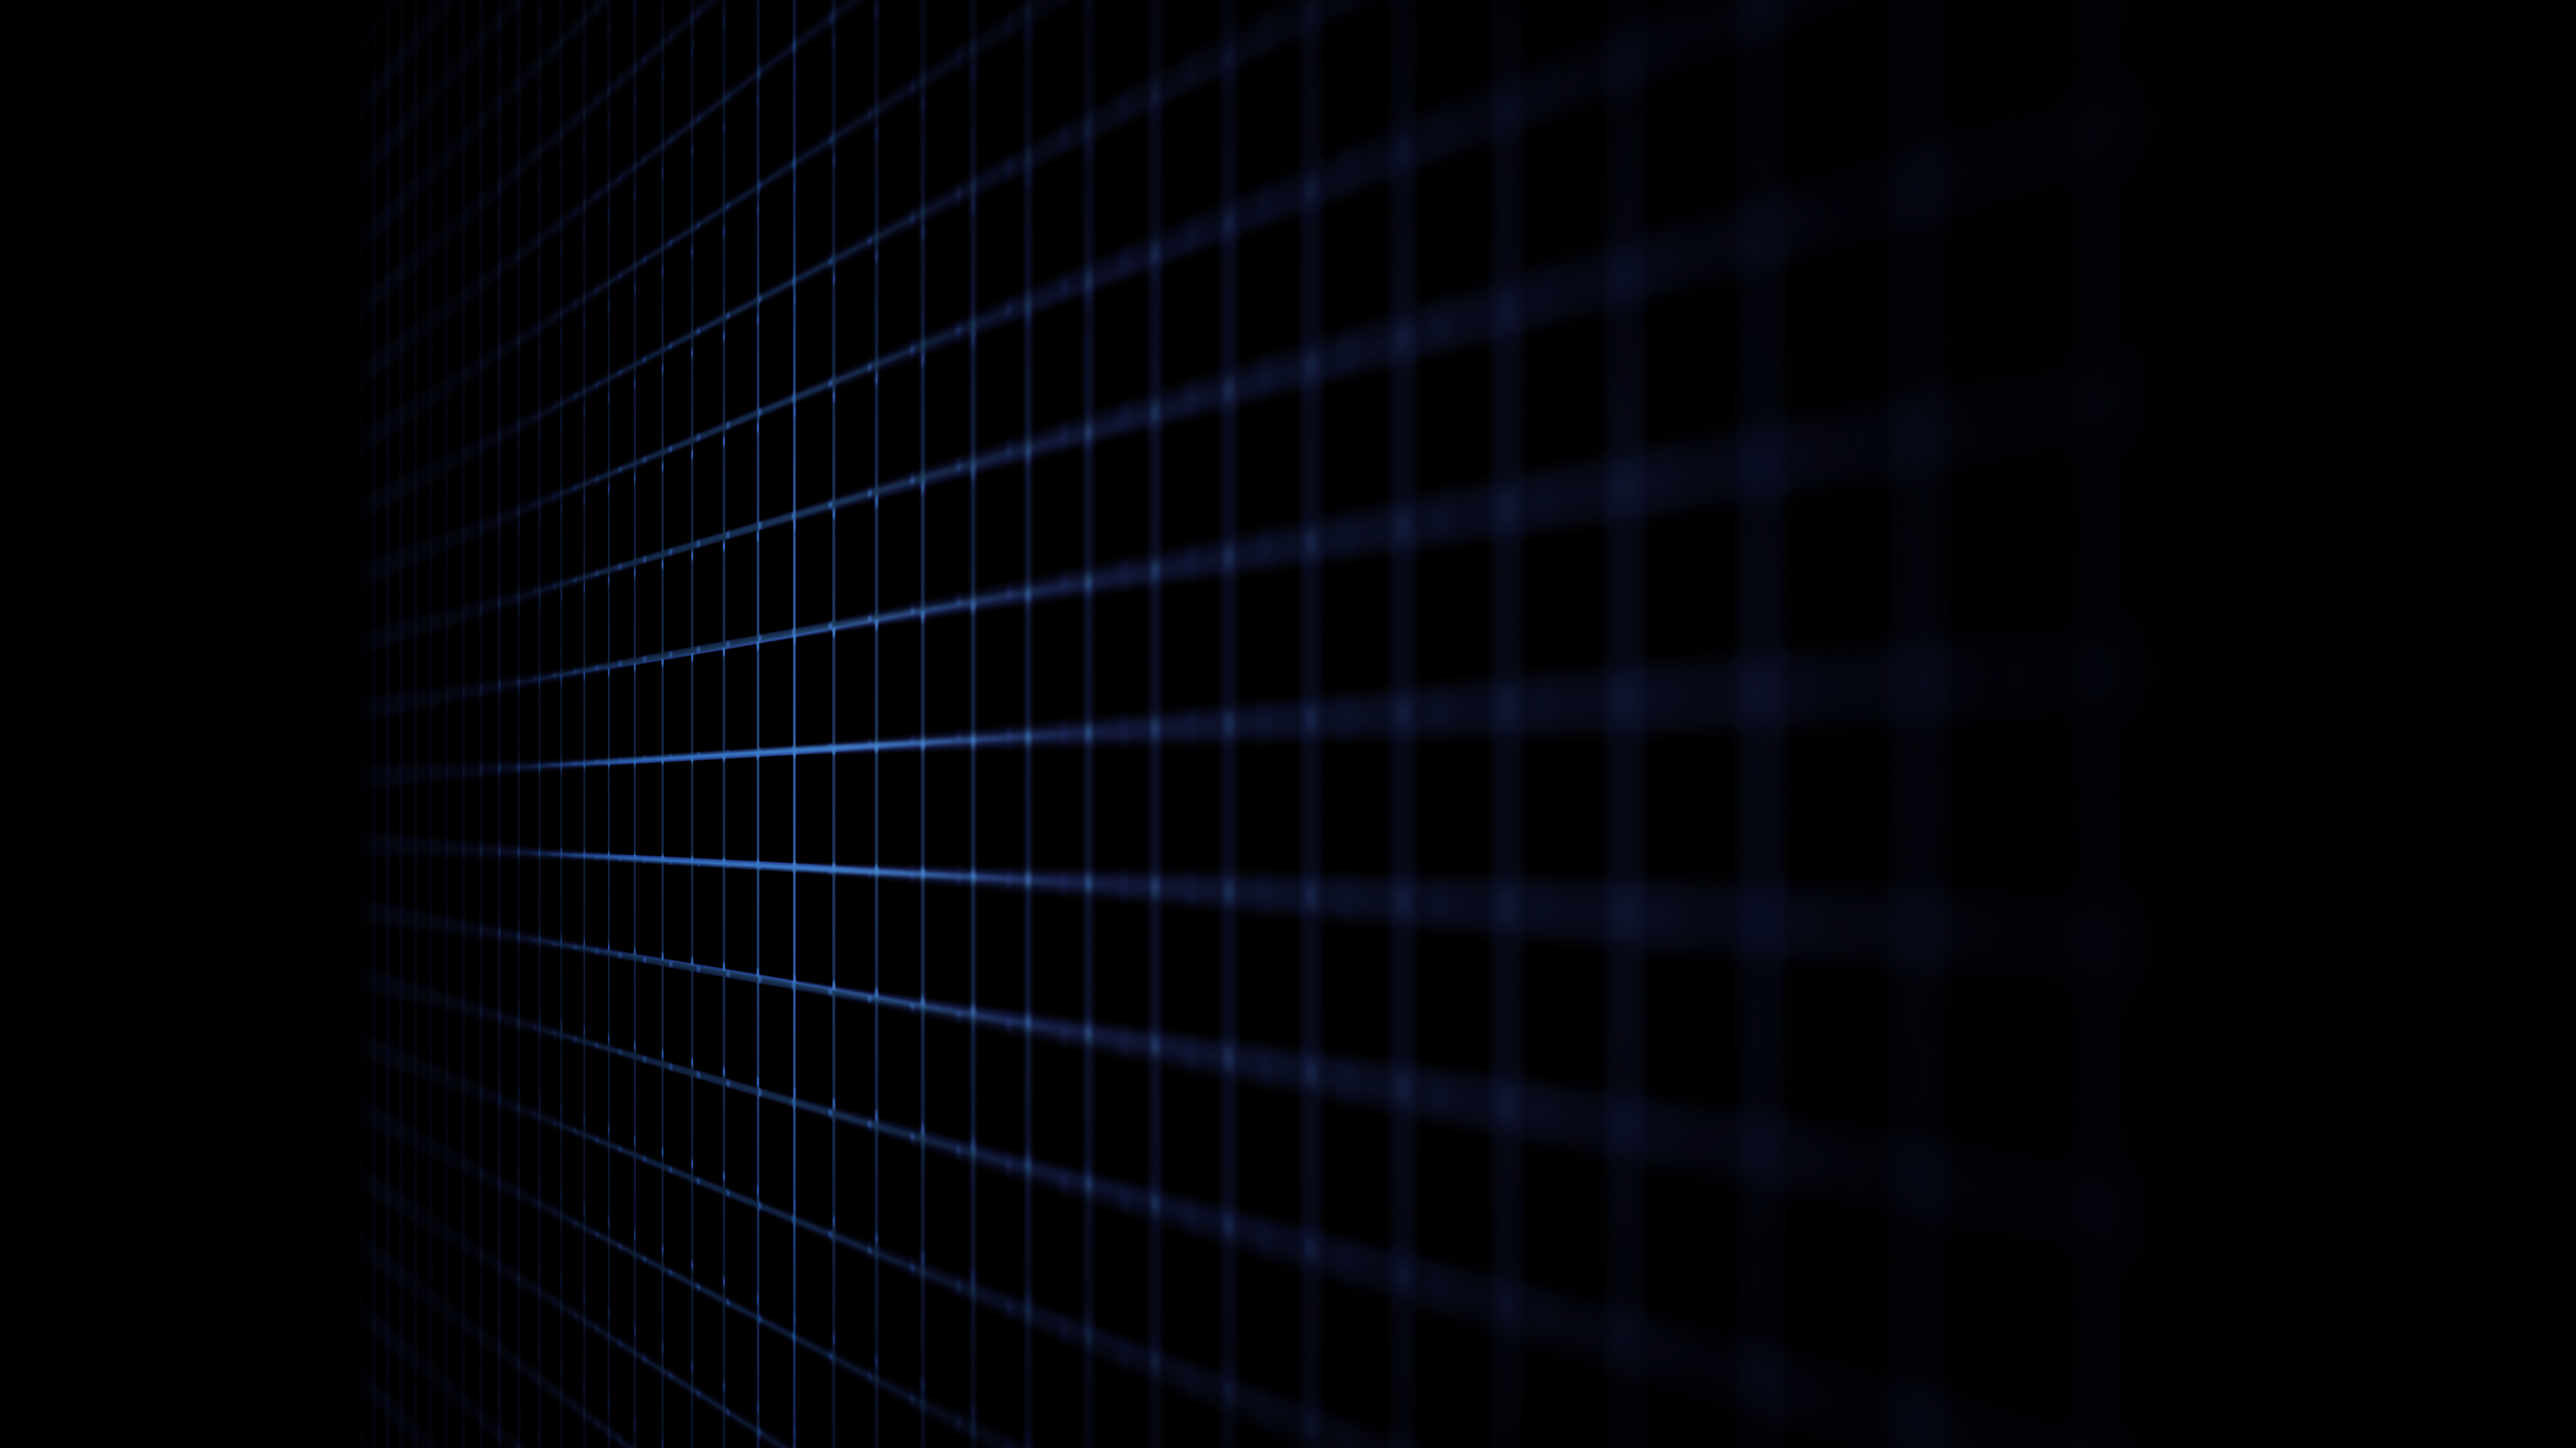
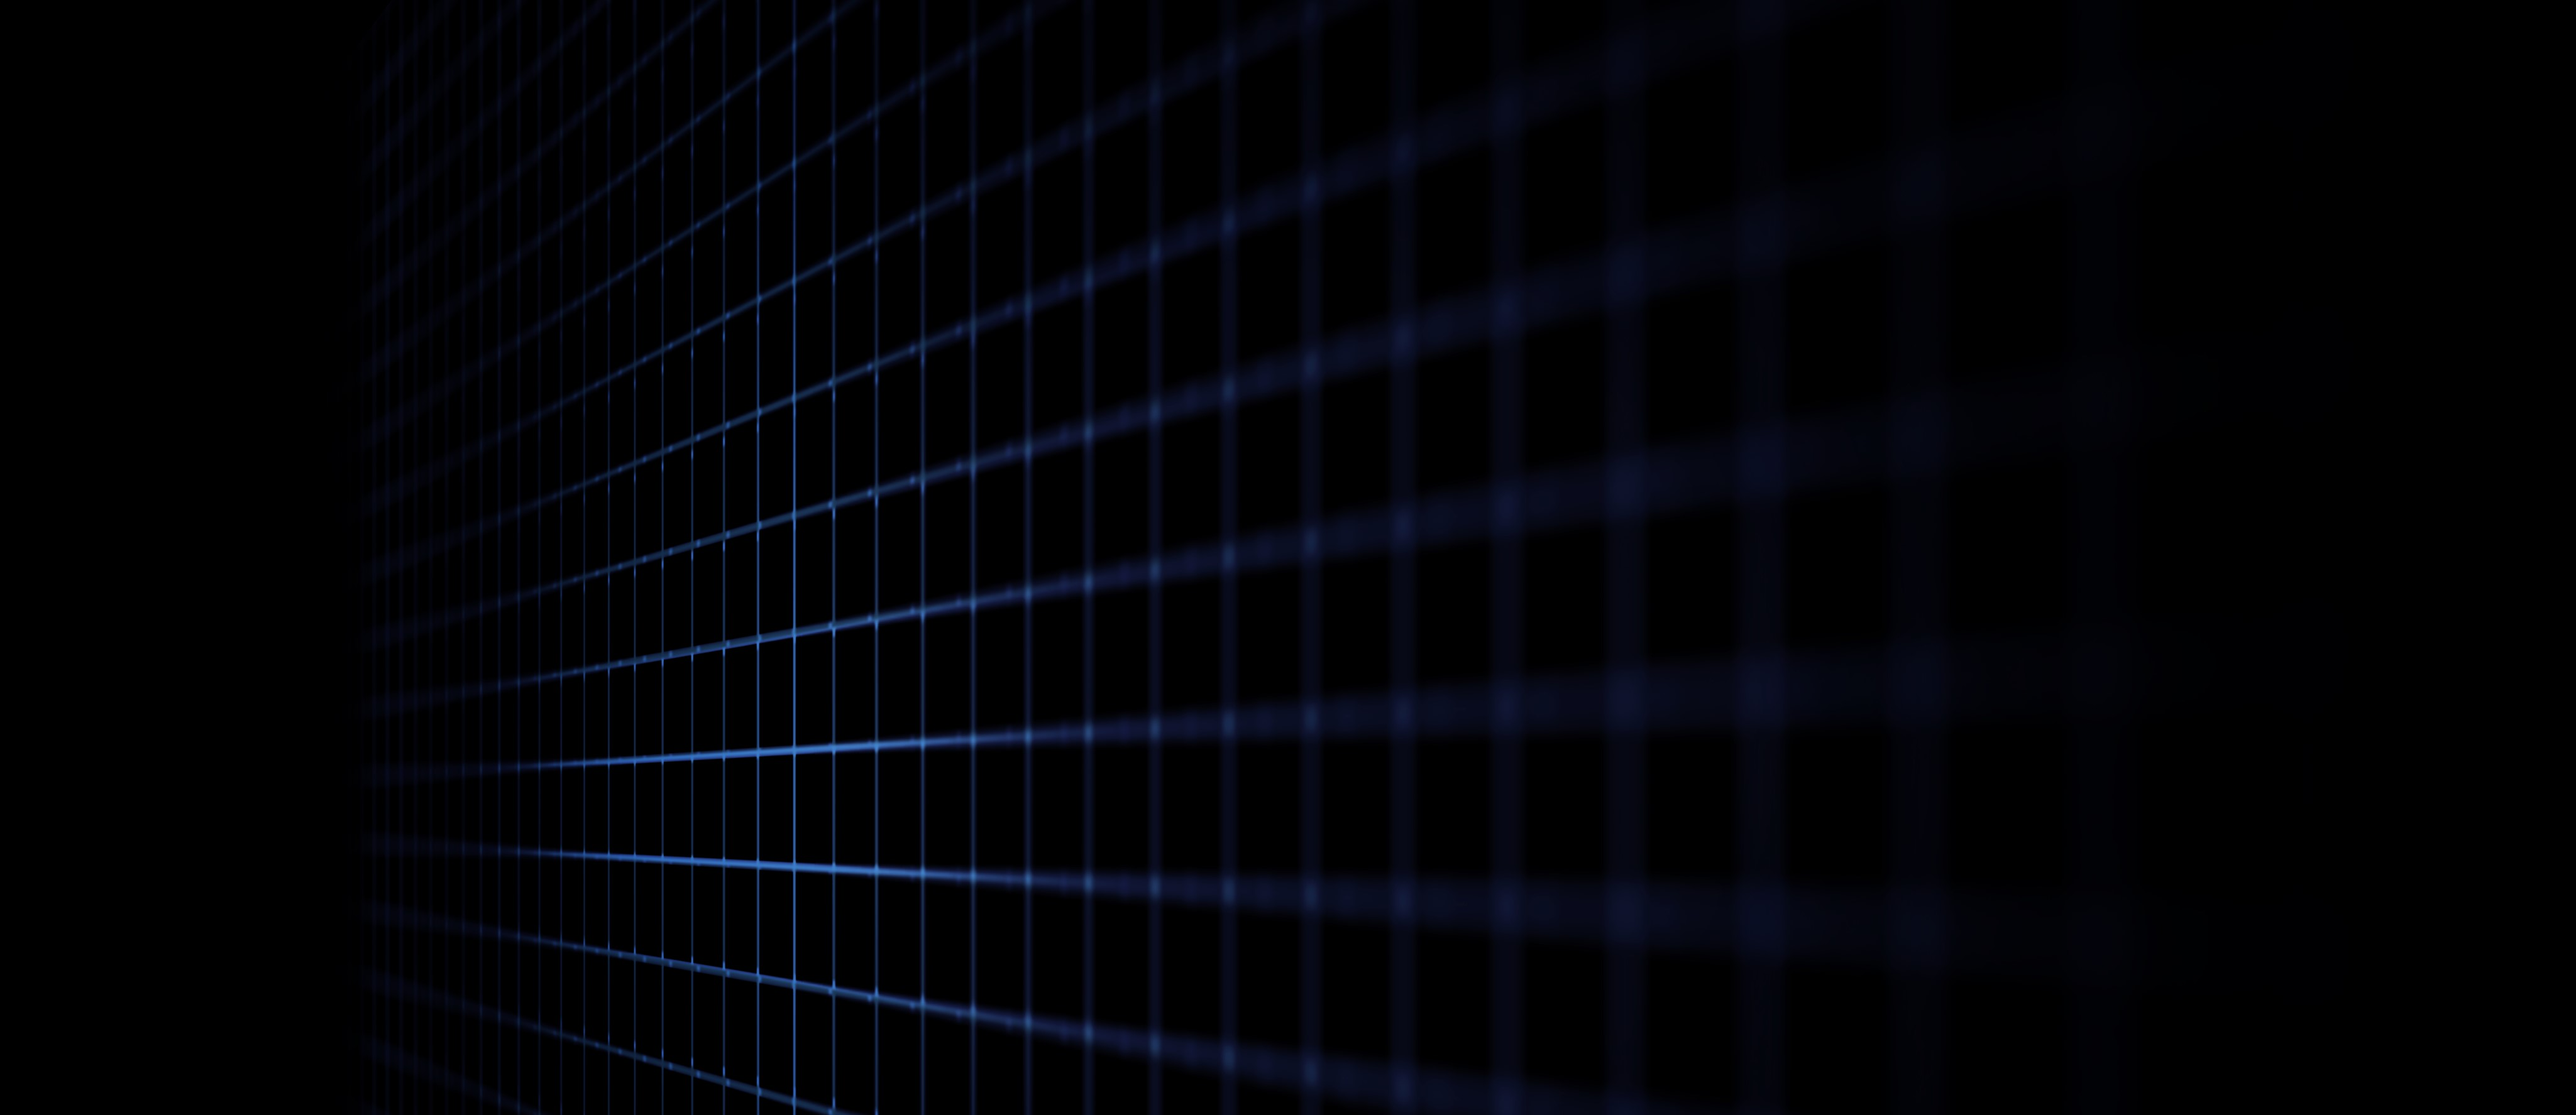
bg

diff --git a/components/Hero/index.tsx b/components/Hero/index.tsx
@@ -3,30 +3,30 @@ import { Typewriter } from 'nextjs-simple-typewriter'
 import Image from 'next/image'
 import { LuNetwork } from 'react-icons/lu'
 import { FaCode } from 'react-icons/fa'
+import { BiChevronDown } from 'react-icons/bi'
 
 
 
 const Hero = () => {
-      const iam = "I'M";
       
   return (
-      <div className="-ml-28 flex relative min-h-screen flex-col  " >
+      <div className="-ml-28 flex relative min-h-screen flex-col  backdrop-blur-lg"  >
       
-      <div className="text-center z-10 md:text-start ml-32 mt-32 flex flex-col">
+      <div className="  md:text-center z-10 md:text-start ml-32 md:ml-0 mt-32 md:mt-40 flex flex-col backdrop-blur-md">
 
-            <div className="fade-in-slowest text-center md:text-left md:ml-28 mt-10">
+            <div className="fade-in-slowest text-center md:text-left md:ml-28 mt-10 ">
       
                         
-                  <h1 className="text-left text-3xl fade-in md:text-6xl text-pink-400 font-bold">
+                  <h1 className="text-left md:text-center text-3xl fade-in md:text-6xl text-pink-400 font-bold">
                   <span className='text-green-400'> THE </span> 
 
-                  LIGHT  <span className="text-blue-500 md:text-6xl  fade-in-slowest ">TECHNOLOGIES . . .</span>
+                  LIGHT  <span className="text-blue-500 md:text-6xl  fade-in-slowest ">TECHNOLOGIES </span>
                   </h1>
             
 
             </div>
 
-            <div className='text-left ml-3 md:ml-28 mt-10'>
+            <div className='text-left md:text-center ml-3 md:ml-28 mt-10'>
                   <h1 className=' text-2xl md:text-4xl font-bold text-pink-400'>
                   I&apos;M a
 
@@ -48,9 +48,14 @@ const Hero = () => {
 
             
 
-            <div className='text-left md:ml-28 mt-10 '>
+            <div className='text-left md:text-center md:ml-28 mt-10 '>
                   <h1 className='md:text-4xl'><span className='font-bold'> With the Increasingly developing technologies, We aim at providing Quality, durable and secure software solutions to our Customers </span> <br /> <br /> Feel free to explore our sevices...</h1>
+                  
             </div>
+            <div className=' flex justify-center items-center mt-10' >
+            <BiChevronDown className='text-5xl md:ml-20 ' style={{cursor:'pointer'}} />
+            </div>
+            
 
             
 

diff --git a/components/below-hero/index.tsx b/components/below-hero/index.tsx
@@ -6,7 +6,8 @@ import code from '../../public/images/code.png'
 const info = () => {
   return (
 
-      <div className='  -mt-40  text-center md:text-left bg-blue-800 bg-opacity-25 '>
+      <div className=''>
+            <div className='  text-center md:text-left bg-blue-800 bg-opacity-25 '>
             <div className='md:ml-10 md:ml-24 flex flex-col md:flex md:flex-row gap-20 '>
             
             
@@ -15,7 +16,7 @@ const info = () => {
                         <span className='text-2xl text-green-400 md:ml-32'>Hello ! </span> I&apos;m Akatwijuka Elia
                   </h1>
 
-                  <div className='mt-10 rounded-lg border border-black px-4 py-5  bg-opacity-25 bg-blue-900 backdrop-blur-md text-center md:text-left  '>
+                  <div className='mt-10 rounded-lg border border-black px-4 py-5  bg-opacity-25 bg-blue-900 backdrop-blur-lg text-center md:text-left  '>
                         <h1 className='text-2xl'>
                         I&apos;m a Proffessional Software engineer with a strong understanding <br /> of software development principles and passion for solving problems through code.
                         <br /> I&apos;m also a Full-stack web developer and Networker. <br /> With the experience i have attained in these fields 
@@ -30,6 +31,7 @@ const info = () => {
 
             </div>
             
+      </div>
       </div>
       
   )

diff --git a/components/header/index.tsx b/components/header/index.tsx
@@ -27,7 +27,7 @@ const Header = () => {
     return () => {
       window.removeEventListener("scroll", handleStickyNavbar);
     };
-  }, []);
+  }, []); 
 
 //   const handleSubmenu = (index) => {
 //     if (openIndex === index) {
@@ -40,8 +40,8 @@ const Header = () => {
   return (
     <>
       <header
-        className={`header fixed top-0 left-0 z-40 flex w-full items-center  mt-[-8px] 
-            ${sticky ? " bg-dark !fixed !z-[9999] ! bg-opacity-100 shadow-sticky backdrop-blur-sm fade-in !transition dark:! dark:!bg-opacity-100": "absolute" }`
+        className={`header fixed top-0 left-0 z-40 flex w-full items-center backdrop-blur-sm mt-[-8px] 
+            ${sticky ? " bg-dark !fixed !z-[9999] ! bg-opacity-100 shadow-sticky backdrop-blur-md fade-in !transition dark:! dark:!bg-opacity-100": "absolute" }`
       }
       >
         <div className=" mt-10 container">

diff --git a/src/app/page.tsx b/src/app/page.tsx
@@ -7,7 +7,7 @@ import Info from "../../components/below-hero";
 
 export default function Home() {
   return (
-    <div className="overflow-hidden " style={{backgroundColor:'rgba(0, 0, 0, 0.6)', backgroundImage:`url('/images/newbg.png')`,backgroundSize:'cover',backgroundPosition:'center', backgroundBlendMode:'multiply'}}>
+    <div className=" overflow-hidden " style={{ backgroundImage:`url('/images/newbg.jpg')`,backgroundRepeat:'no-repeat',backgroundSize:'cover',backgroundPosition:'center', backgroundBlendMode:'multiply'}}>
 
       <Hero/>
       <Info />
